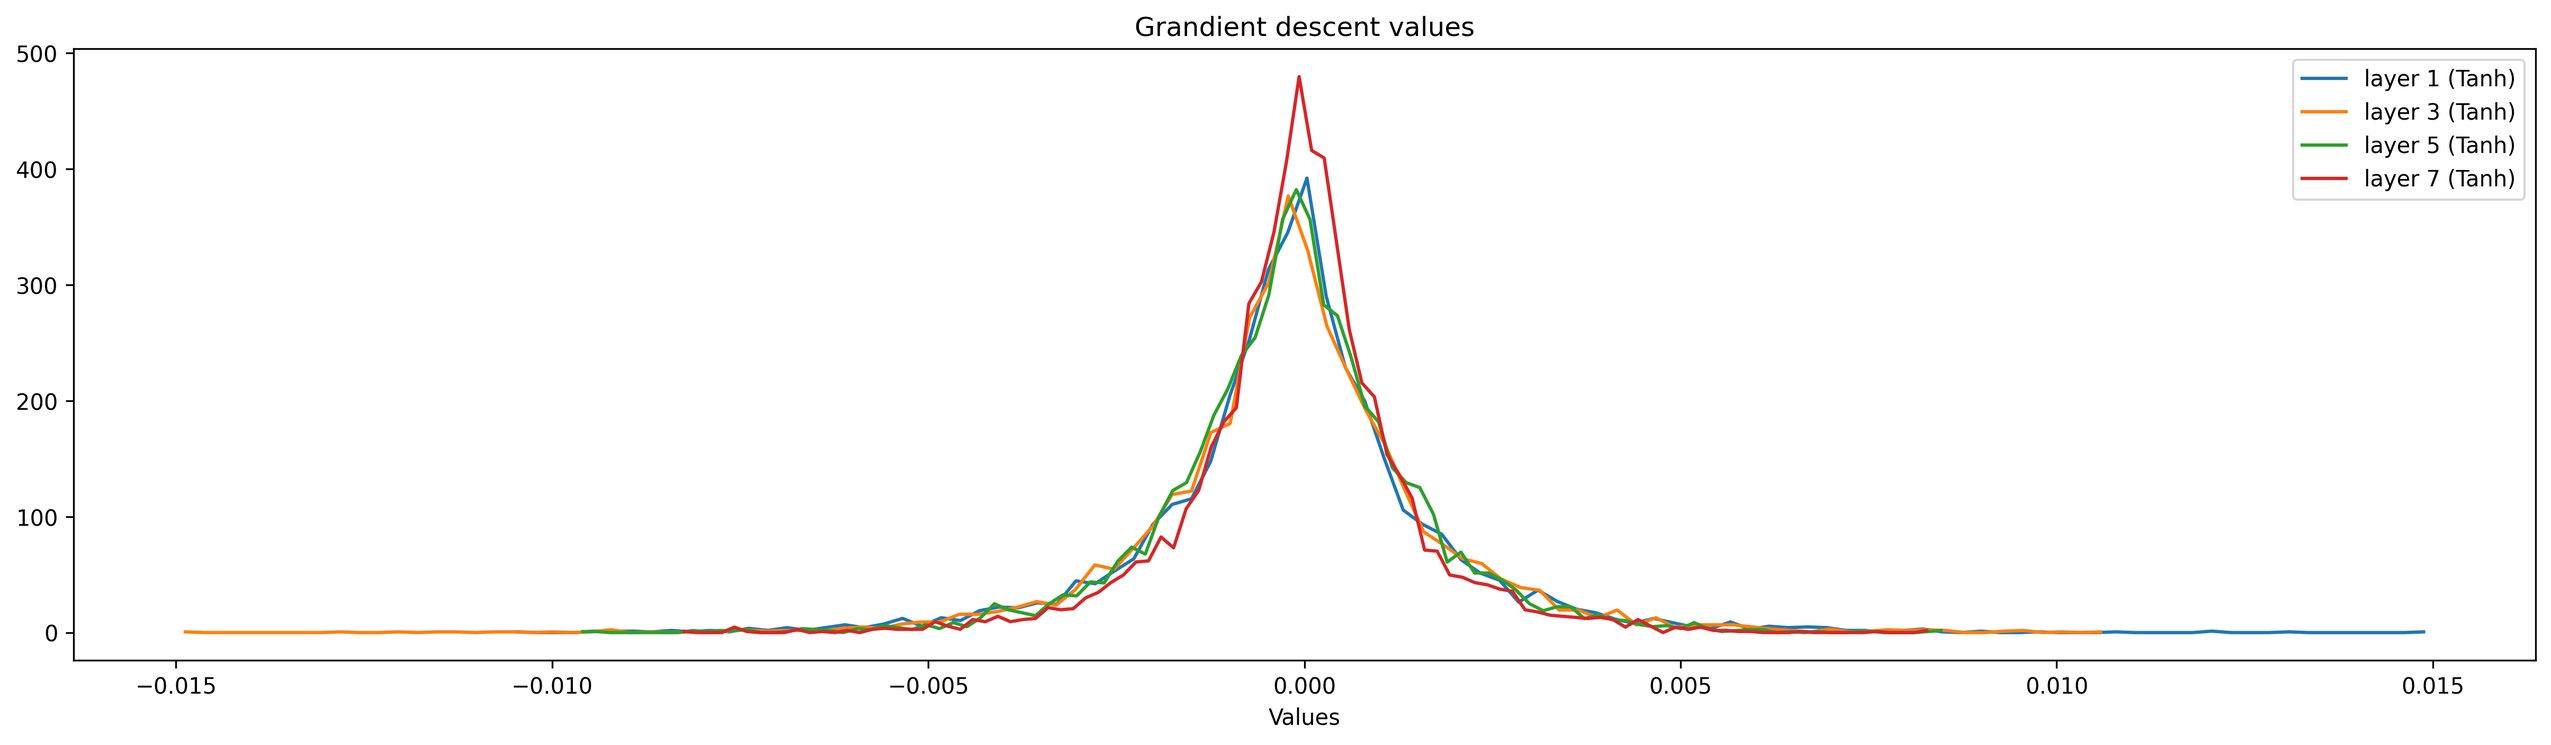
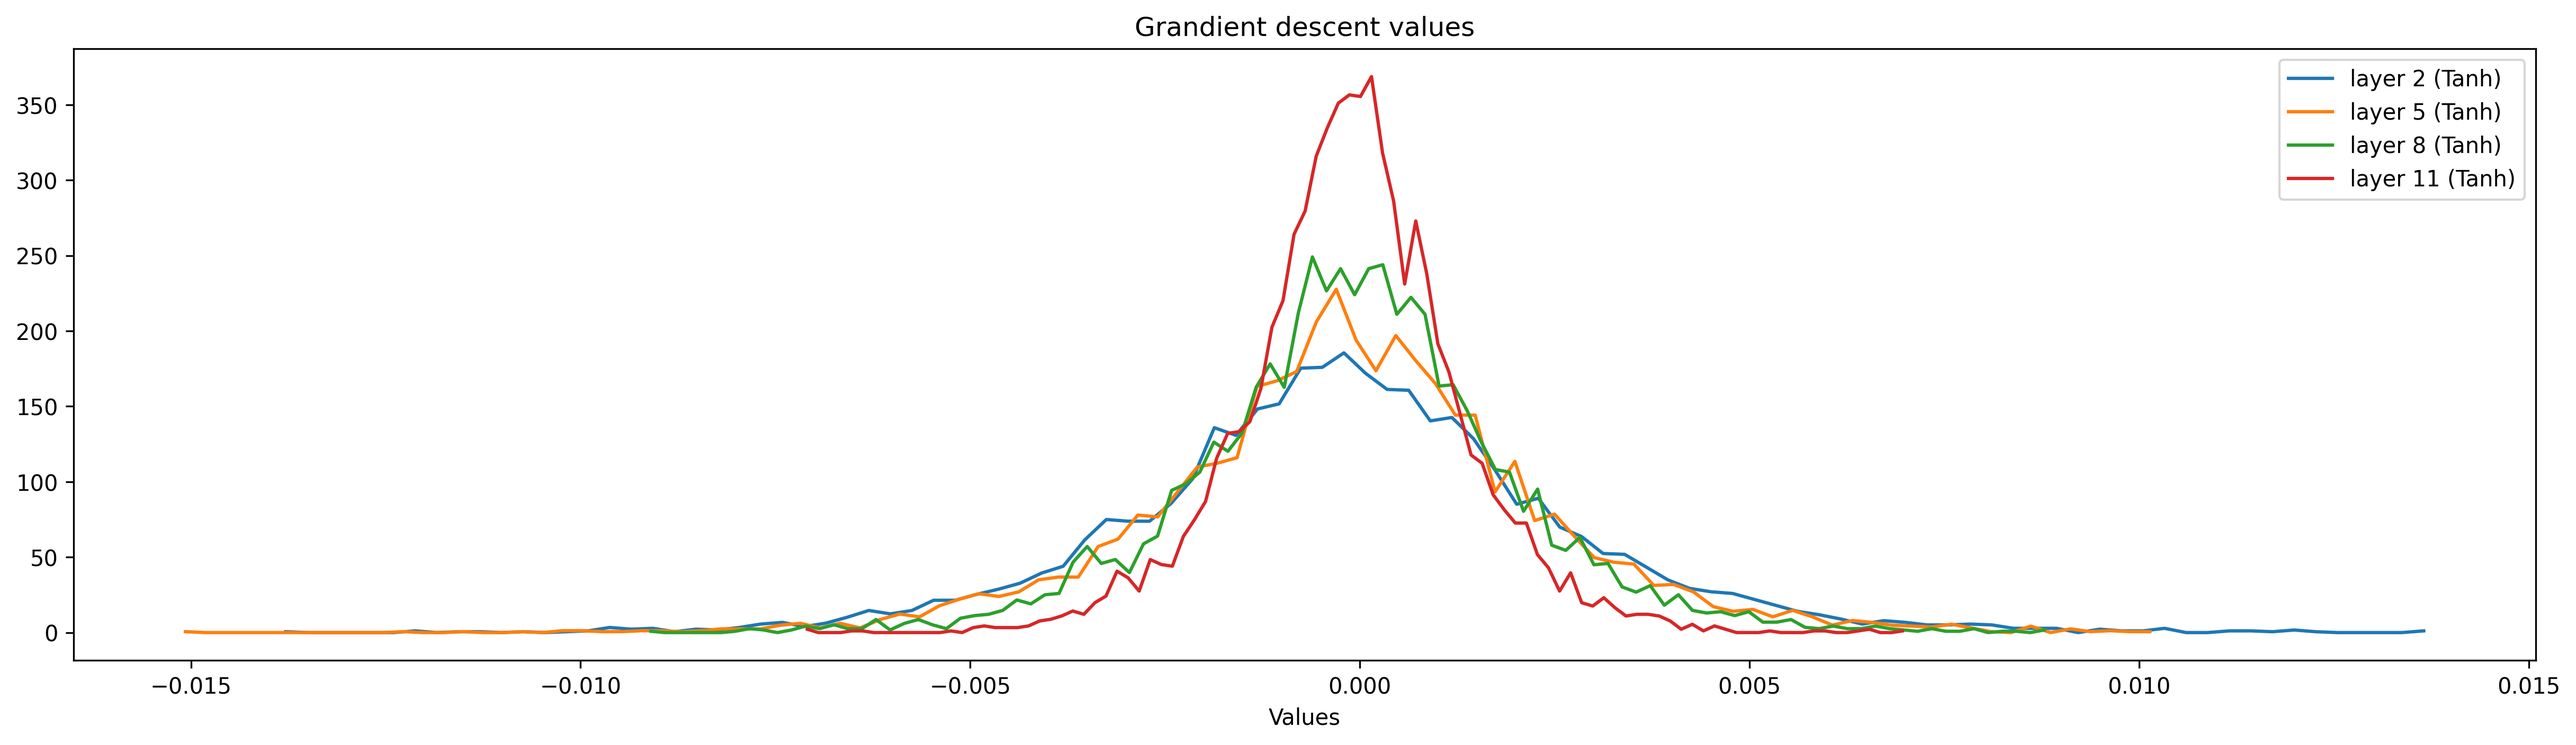
[AI_Algos]: Inserting batchNorm layer in the NeuralNetword + recomputing the images

diff --git a/Makemore_LanguageModel/makemore_part3.2.py b/Makemore_LanguageModel/makemore_part3.2.py
@@ -1,6 +1,9 @@
 #Interlude : hyperparameters optimizations to compute the best solution
 import torch
 import torch.nn.functional as F
+import math
+from torch.utils.backcompat import keepdim_warning
+
 import Utilities as ut
 import matplotlib.pyplot as plt
 
@@ -32,6 +35,23 @@ class Tanh:
     def parameters(self):
         return []
 
+class BatchNorm1Dim:
+
+    def __init__(self, dimension):
+        self.dim = dimension
+        self.epsilon = 1e-5
+        self.gamma = torch.ones(dimension)
+        self.beta = torch.zeros(dimension)
+        self.running_mean = 0
+        self.running_std = 0
+        self.learning_rate = 0.01
+
+    def __call__(self, x):
+        self.out = self.gamma * ((x - x.mean(0, keepdim=True)) / torch.sqrt(x.var(0, keepdim=True) + self.epsilon)) + self.beta
+        return self.out
+
+    def parameters(self):
+        return [self.gamma, self.beta]
 
 n_bloc_size = 3
 myUtil = ut.Utilies(contextLen=n_bloc_size, sz_train=0.9)
@@ -44,17 +64,17 @@ n_out = 27
 
 C = torch.randn((27, n_embedding))
 
-myNeuralNetwork = [Linear(n_bloc_size * n_embedding , n_hidden), Tanh(),
-                   Linear(n_hidden                  , n_hidden), Tanh(),
-                   Linear(n_hidden                  , n_hidden), Tanh(),
-                   Linear(n_hidden                  , n_hidden), Tanh(),
-                   Linear(n_hidden                  , n_hidden)]
+myNeuralNetwork = [Linear(n_bloc_size * n_embedding , n_hidden), BatchNorm1Dim(n_hidden), Tanh(),
+                   Linear(n_hidden                  , n_hidden), BatchNorm1Dim(n_hidden), Tanh(),
+                   Linear(n_hidden                  , n_hidden), BatchNorm1Dim(n_hidden), Tanh(),
+                   Linear(n_hidden                  , n_hidden), BatchNorm1Dim(n_hidden), Tanh(),
+                   Linear(n_hidden                  , n_out),]
 
 with torch.no_grad():
-    myNeuralNetwork[-1].weight.data *= 0.1
     for layer in myNeuralNetwork:
         if (isinstance(layer, Linear)):
-            layer.weight.data *= 5/3
+            layer.weight.data *= 5/3  #Copy of Kaiming init
+    myNeuralNetwork[-1].weight.data *= 0.1
 
 parameters = [C] + [p for layer in myNeuralNetwork for p in layer.parameters()]
 lossi = []
